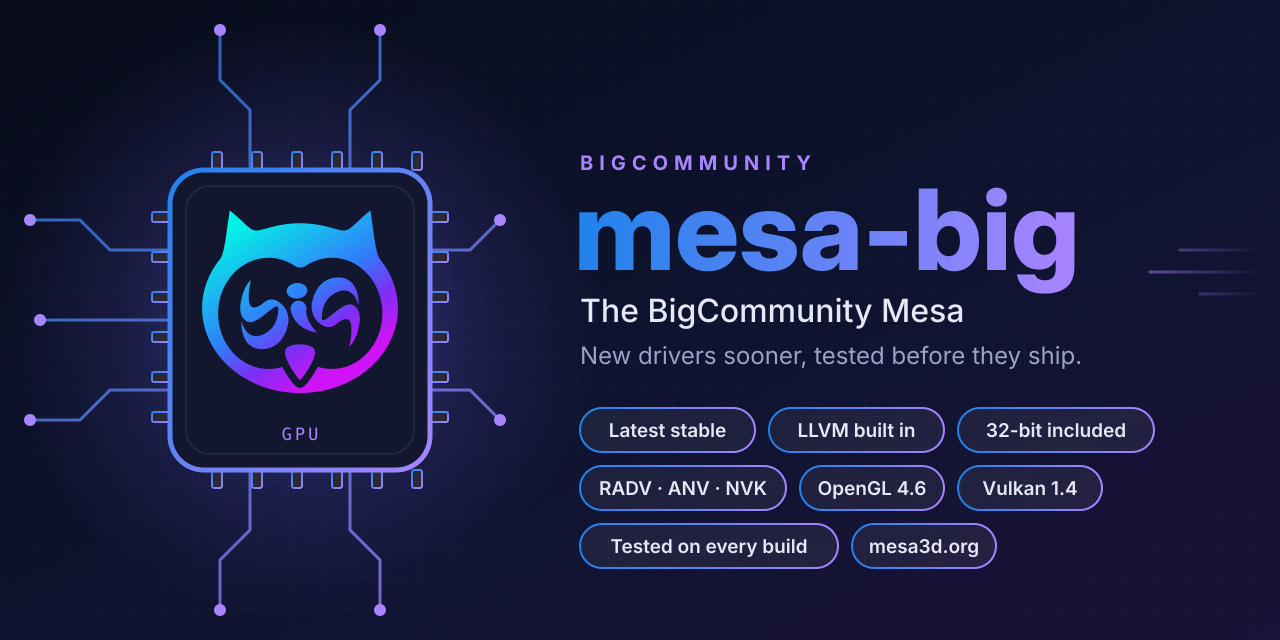
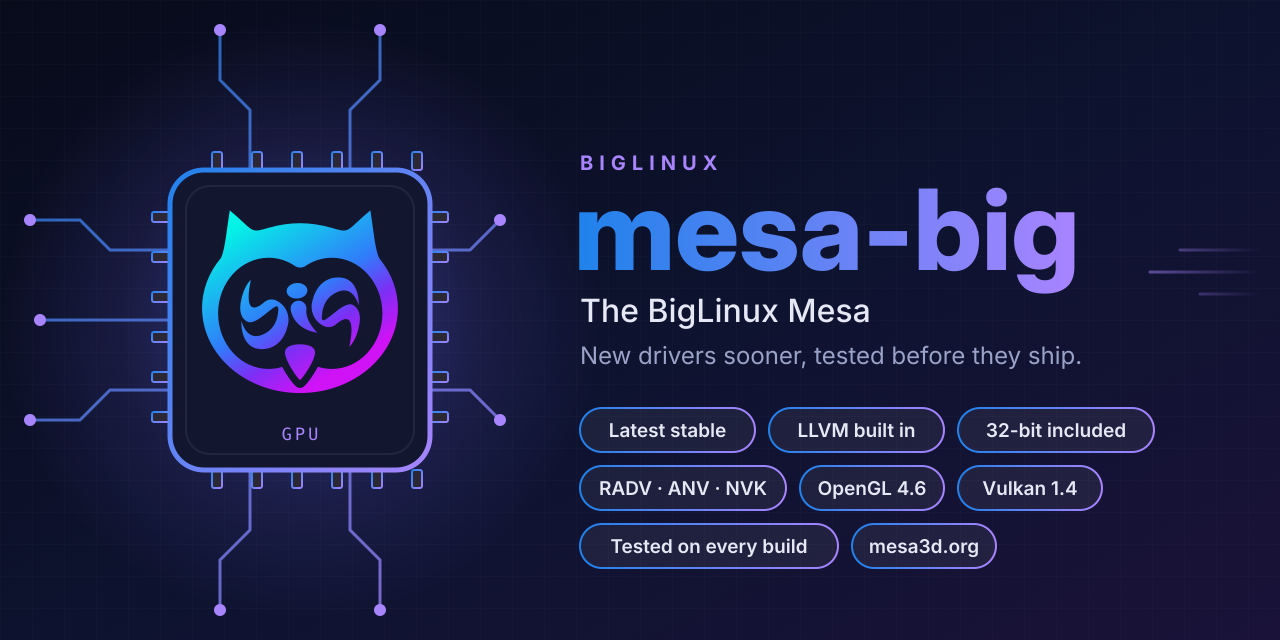
🔧 chore: build in BigLinux's CI and publish to its repositories
The repository moved to biglinux/big-mesa. The watcher sends the builds to
biglinux/build-package, which builds the directory it is given
(pkgbuild_dir) for biglinux-testing, and reads what is published from
biglinux-stable and biglinux-testing instead of the community ones.

The packages, README and banner say BigLinux.

Changed region(s): [[0.5312, 0.4688, 0.75, 0.5312], [0.5, 0.2188, 0.5938, 0.2812]]

diff --git a/.github/scripts/watch_mesa.py b/.github/scripts/watch_mesa.py
@@ -13,7 +13,7 @@ follow    Runs in the build image. Moves both PKGBUILDs, together, to the
           A new LLVM major is left to a person: Mesa may not support it yet.
 
 dispatch  Sends each package to be built for testing while its PKGBUILD is
-          ahead of what community-testing has, up to three attempts per
+          ahead of what biglinux-testing has, up to three attempts per
           version, as the big-kernel module watcher does.
 
 A version that does not build, or fails check(), is never published: the
@@ -34,9 +34,9 @@ import time
 import urllib.error
 import urllib.request
 
-REPOSITORY_URL = "https://github.com/big-comm/big-mesa"
+REPOSITORY_URL = "https://github.com/biglinux/big-mesa"
 USER_AGENT = f"big-mesa-watch/1 (+{REPOSITORY_URL})"
-WORKFLOW_REPOSITORY = "big-comm/build-package"
+WORKFLOW_REPOSITORY = "biglinux/build-package"
 
 # Package directory -> the Manjaro package whose library it links unversioned.
 PACKAGES = {
@@ -57,9 +57,9 @@ MANJARO_DBS = {
     "spirv-tools": "https://mirrors.manjaro.org/repo/stable/extra/x86_64/extra.db",
     "lib32-spirv-tools": "https://mirrors.manjaro.org/repo/stable/multilib/x86_64/multilib.db",
 }
-COMMUNITY_DB = "https://repo.communitybig.org/community-{branch}/x86_64/community-{branch}.db"
+BIGLINUX_DB = "https://packages.biglinux.com.br/biglinux-{branch}/x86_64/biglinux-{branch}.db"
 # What a testing user sees: stable, with testing's copy taking precedence.
-TESTING_VIEW = [COMMUNITY_DB.format(branch="stable"), COMMUNITY_DB.format(branch="testing")]
+TESTING_VIEW = [BIGLINUX_DB.format(branch="stable"), BIGLINUX_DB.format(branch="testing")]
 
 
 class PkgbuildError(Exception):
@@ -71,7 +71,7 @@ def log(message):
 
 
 def fetch(url):
-    # repo.communitybig.org refuses urllib's default User-Agent.
+    # Package servers may refuse urllib's default User-Agent.
     request = urllib.request.Request(url, headers={"User-Agent": USER_AGENT})
     with urllib.request.urlopen(request, timeout=300) as response:
         return response.read()

diff --git a/README.md b/README.md
@@ -1,11 +1,11 @@
 <p align="center">
-  <img src=".github/assets/banner.png" alt="mesa-big — the BigCommunity Mesa" width="100%">
+  <img src=".github/assets/banner.png" alt="mesa-big — the BigLinux Mesa" width="100%">
 </p>
 
-# mesa-big — the BigCommunity Mesa
+# mesa-big — the BigLinux Mesa
 
 **mesa-big** is an optional build of [Mesa](https://www.mesa3d.org), the open
-source OpenGL and Vulkan drivers, for [BigCommunity](https://communitybig.org).
+source OpenGL and Vulkan drivers, for [BigLinux](https://www.biglinux.com.br).
 It is built from the official sources at mesa3d.org, always the latest stable
 release (the `.0` of a new series included), with its own copy of LLVM built
 in, and it is tested during the build on simulated AMD and Intel GPUs. It
@@ -82,7 +82,7 @@ example `Mesa 26.2.5-big1`.
 
 ## Installing
 
-From the **BigCommunity Driver Manager**: *Mesa* page, the **BigCommunity**
+From the **BigLinux Driver Manager**: *Mesa* page, the **BigLinux**
 row, *Switch*. It plans the switch first and refuses it if any installed
 package would lose a dependency.
 
@@ -151,7 +151,7 @@ up in the package.
 ## Updating to a new release
 
 Nobody updates it by hand. Two workflows keep it in step, as the
-[big-kernel](https://github.com/big-comm/big-kernel) watchers do:
+[big-kernel](https://github.com/biglinux/big-kernel) watchers do:
 
 - **[Follow Mesa and LLVM](.github/workflows/follow-mesa.yml)**, every six
   hours, in the image the packages are built in. When archive.mesa3d.org has a
@@ -166,7 +166,7 @@ Nobody updates it by hand. Two workflows keep it in step, as the
   tarballs by checksum: this is where the signatures are checked.
 - **[Build what testing lacks](.github/workflows/build-mesa.yml)**, every half
   hour: sends each package to be built for testing while its PKGBUILD is ahead
-  of community-testing. A build that does not get published is sent again
+  of biglinux-testing. A build that does not get published is sent again
   after half an hour, up to three attempts in all; the third failure fails the
   workflow, so GitHub mails it.
 
@@ -202,7 +202,7 @@ gpg --verify mesa-26.2.6.tar.xz.sig mesa-26.2.6.tar.xz
 ## Building it yourself
 
 ```bash
-git clone https://github.com/big-comm/big-mesa
+git clone https://github.com/biglinux/big-mesa
 cd big-mesa/mesa-big
 makepkg -s
 cd ../lib32-mesa-big     # needs the multilib repository
@@ -224,8 +224,8 @@ sudo pacman -U mesa-big/mesa-big-*.pkg.tar.zst lib32-mesa-big/lib32-mesa-big-*.p
 
 ### How the official packages are built
 
-Official packages are built by the BigCommunity CI
-([build-package](https://github.com/big-comm/build-package)), which builds
+Official packages are built by the BigLinux CI
+([build-package](https://github.com/biglinux/build-package)), which builds
 the directory it is asked for (`pkgbuild_dir: mesa-big` or
 `pkgbuild_dir: lib32-mesa-big`).
 
@@ -249,7 +249,7 @@ big-mesa/
 
 - [x] mesa-big 26.2.5 — upstream stable, static LLVM 23.1.4, tested on simulated GPUs
 - [x] **lib32-mesa-big** — the 32-bit libraries, for Steam and Wine, with their own static LLVM
-- [x] Selectable in the BigCommunity Driver Manager
+- [x] Selectable in the BigLinux Driver Manager
 - [ ] Validation on Intel (Arrow Lake) and AMD machines
 - [ ] **opencl-mesa-big** — Rusticl, with its own Clang built in
 - [ ] A `-debug` package, for useful backtraces when a driver crashes
